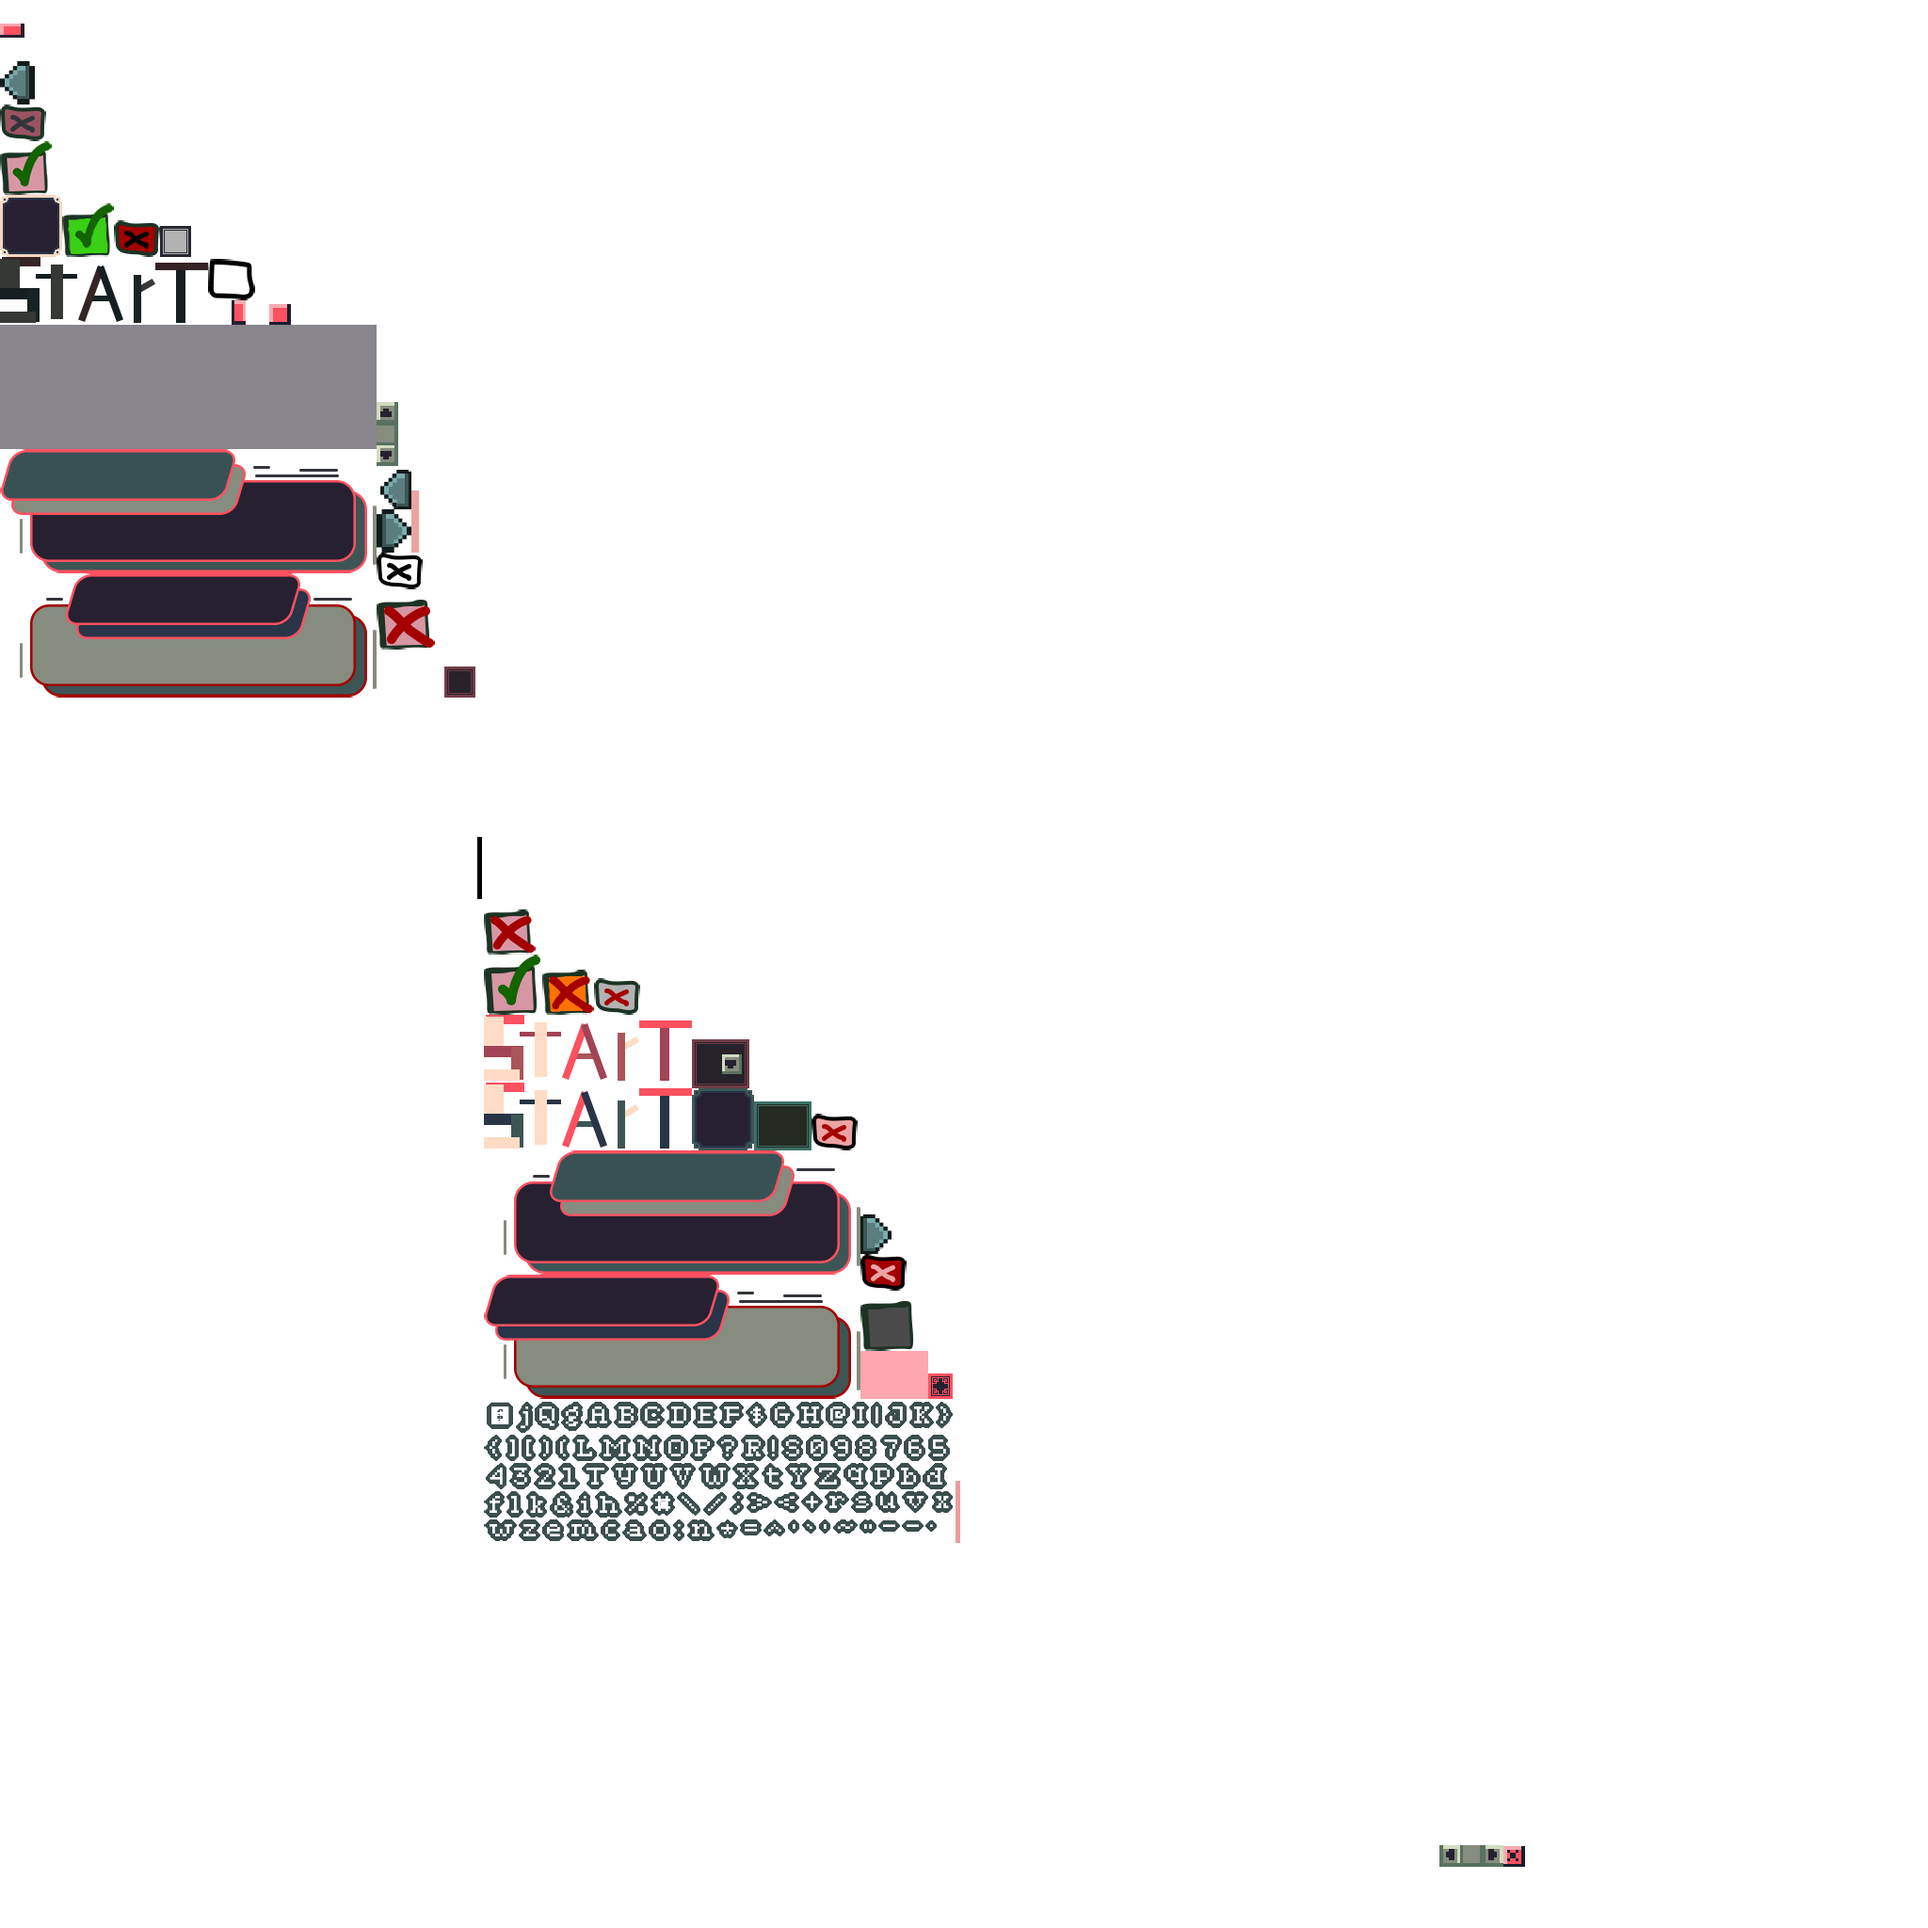
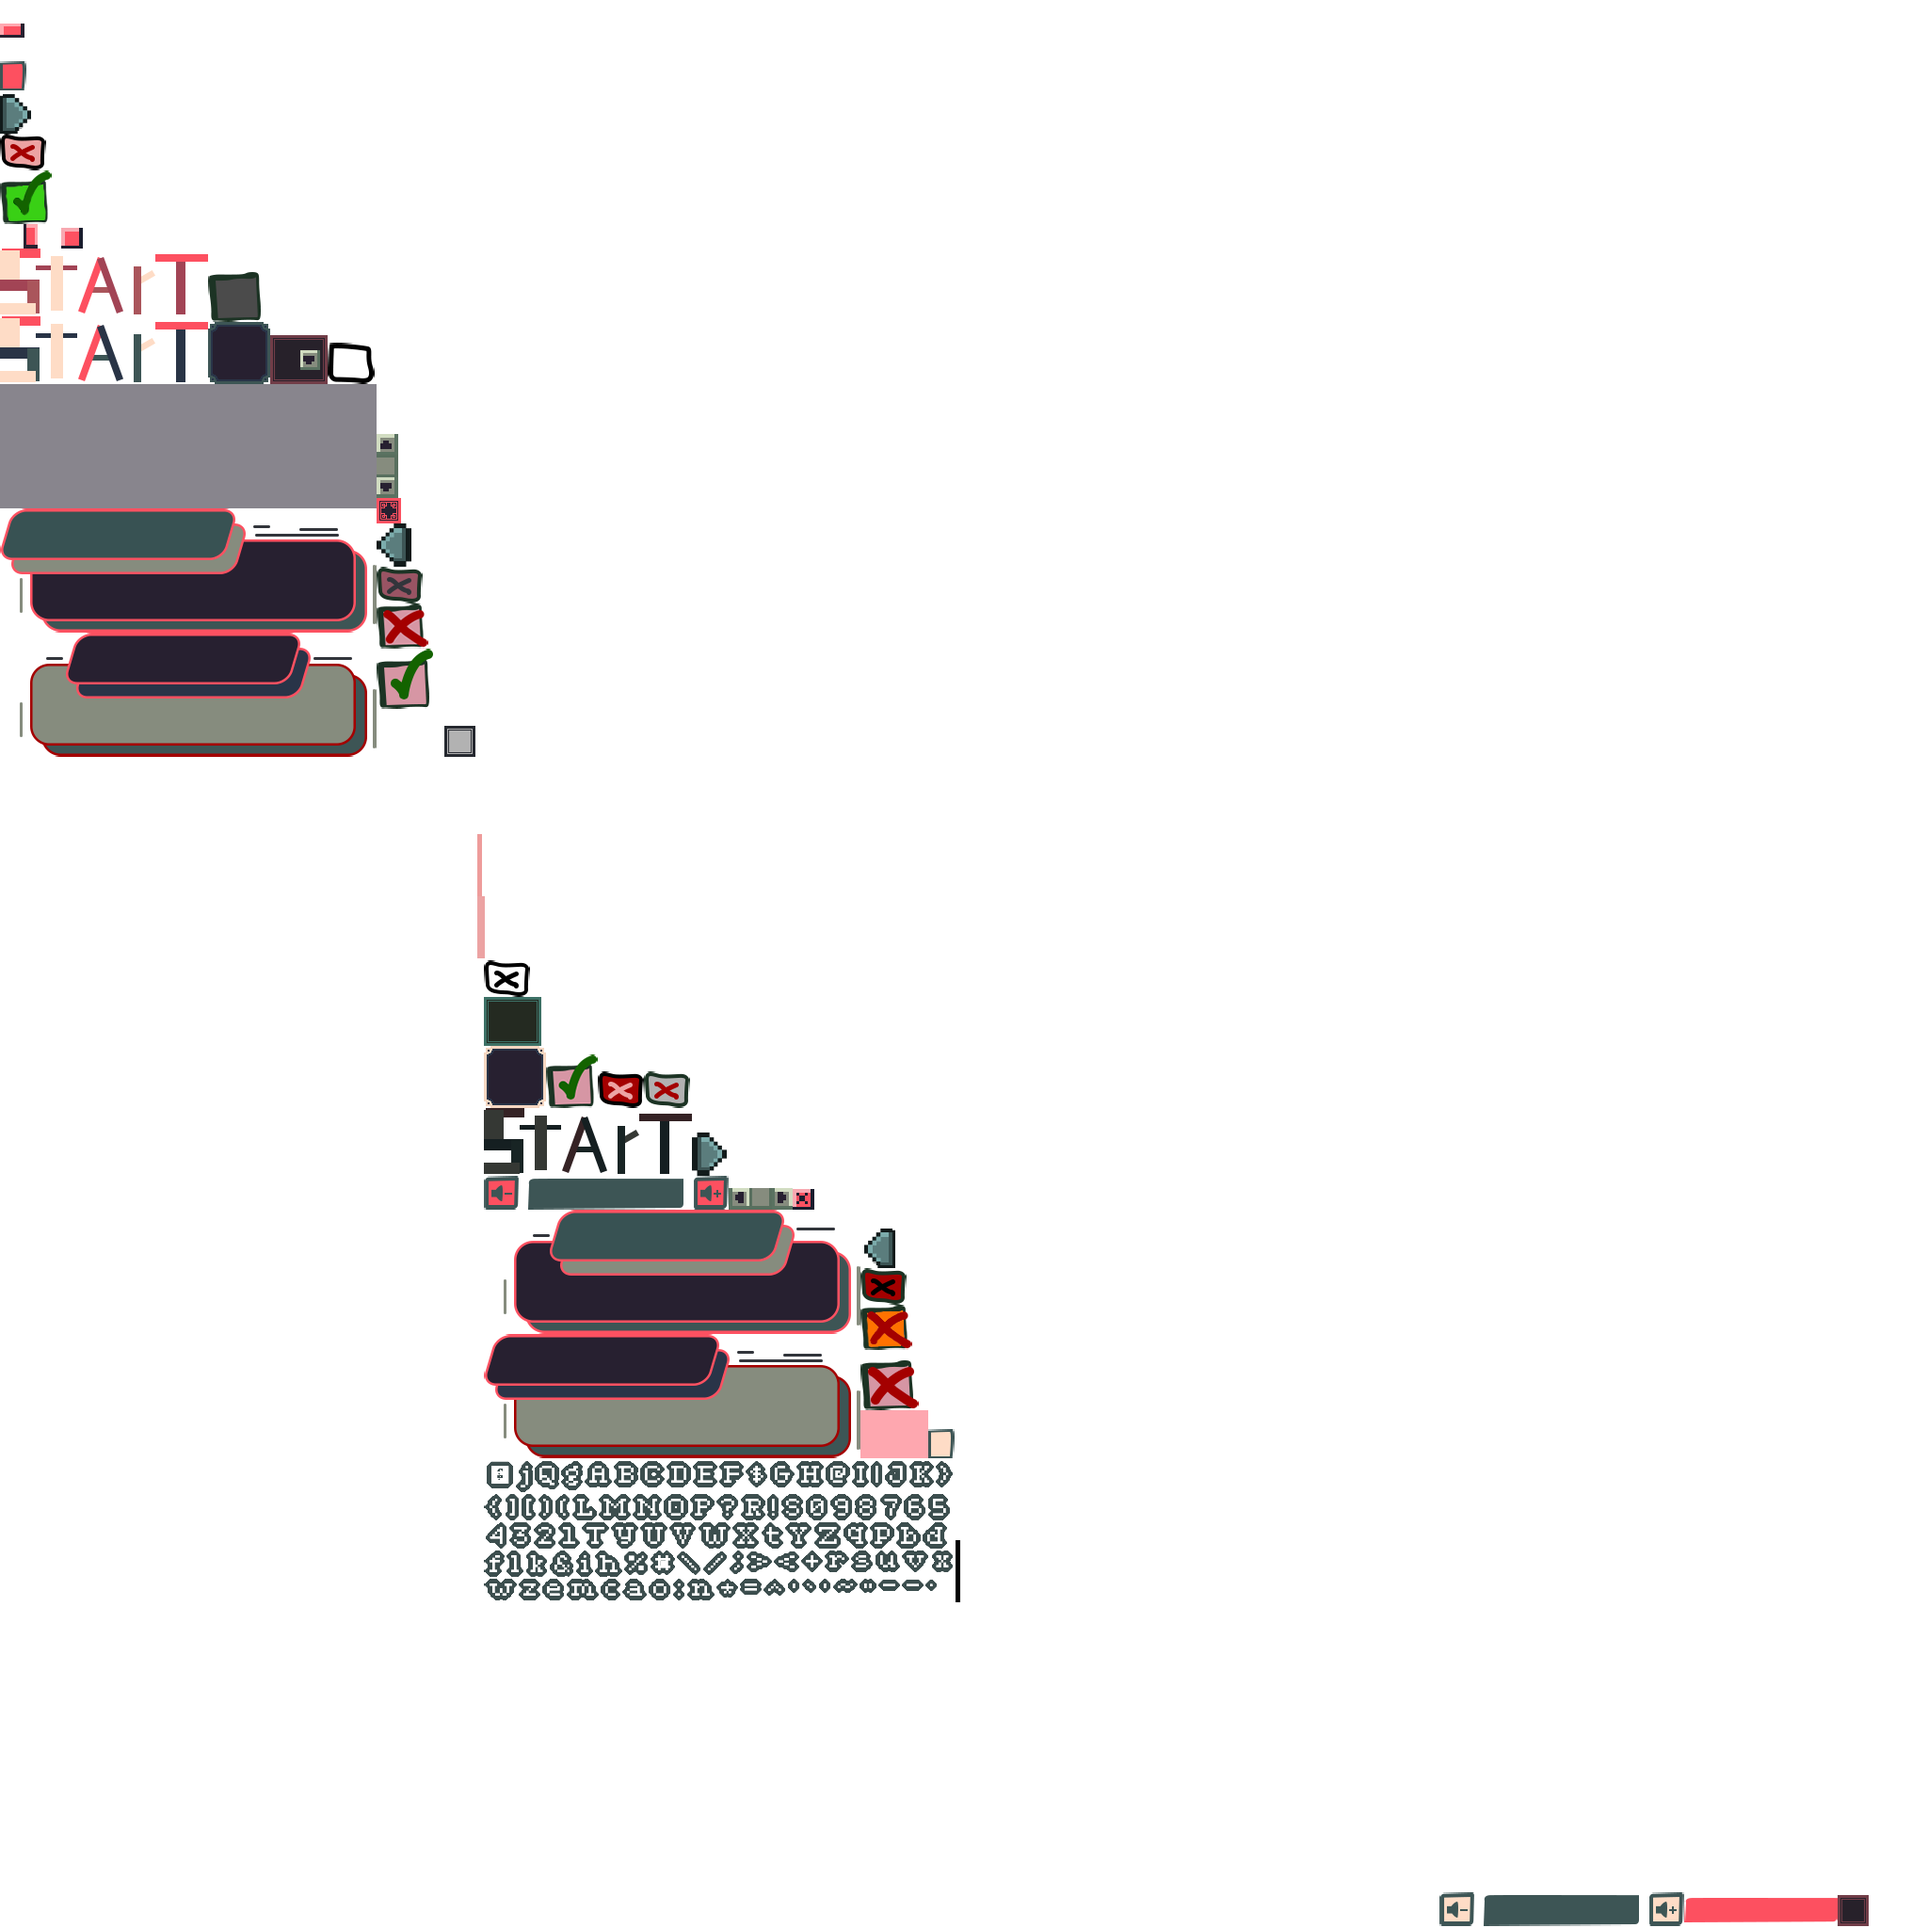
start setting menu

Changed region(s): [[0.25, 0.4688, 0.5, 0.8438], [0.0, 0.0312, 0.25, 0.4062], [0.75, 0.9375, 0.9688, 1.0]]

diff --git a/core/src/main/java/com/tilldawn/View/SettingMenu.java b/core/src/main/java/com/tilldawn/View/SettingMenu.java
@@ -1,17 +1,28 @@
 package com.tilldawn.View;
 
 import com.badlogic.gdx.Gdx;
+import com.badlogic.gdx.graphics.Color;
 import com.badlogic.gdx.scenes.scene2d.Stage;
-import com.badlogic.gdx.scenes.scene2d.ui.Table;
+import com.badlogic.gdx.scenes.scene2d.ui.*;
+import com.badlogic.gdx.utils.Align;
 import com.badlogic.gdx.utils.ScreenUtils;
 import com.badlogic.gdx.utils.viewport.FitViewport;
 import com.badlogic.gdx.utils.viewport.Viewport;
 import com.tilldawn.Controller.SettingMenuController;
+import com.tilldawn.Models.AssetManager;
+import com.tilldawn.Models.GameAudioManager;
 import com.tilldawn.TillDawn;
+
+import java.util.ArrayList;
 
 public class SettingMenu implements AppView {
 
     private final Stage stage;
+
+    private final Slider musicSlider;
+    private final Slider ambientSlider;
+    private final Slider footSlider;
+    private final Slider sfxSlider;
 
     public SettingMenu() {
         Viewport viewport = new FitViewport(1280, 720);
@@ -19,16 +30,61 @@ public class SettingMenu implements AppView {
         Gdx.input.setInputProcessor(stage);
         Table table = new Table();
         table.setFillParent(true);
+        Skin skin = AssetManager.getInstance().getSkin();
 
+        Table page1 = new Table();
+        page1.setSize(1280, 720 * 3);
+        page1.setFillParent(true);
 
+        Label musicLabel = new Label("Music", skin);
+        musicSlider = new Slider(0, 100, 1, false, skin);
+        musicSlider.setValue(GameAudioManager.musicVolume * 100);
 
+        Label SFXLabel = new Label("SFX", skin);
+        sfxSlider = new Slider(0, 100, 1, false, skin);
+        sfxSlider.setValue(GameAudioManager.sfxVolume * 100);
+
+        Label footLabel = new Label("Foot", skin);
+        footSlider = new Slider(0, 100, 1, false, skin);
+        footSlider.setValue(GameAudioManager.footStepVolume * 100);
+
+        Label ambientLabel = new Label("Ambient", skin);
+        ambientSlider = new Slider(0, 100, 1, false, skin);
+        ambientSlider.setValue(GameAudioManager.ambientVolume * 100);
+
+        SelectBox<String> songs = new SelectBox<>(skin);
+        ArrayList<String> songsList = new ArrayList<>();
+        songsList.add("test1");
+        songsList.add("test2");
+        songsList.add("test3");
+        songsList.add("test4");
+        songs.setItems(String.valueOf(songsList));
+        songs.setDisabled(true);
+        songs.setAlignment(Align.center);
+
+        int padTop = 25;
+        int sliderW = 300;
+        int padRight = 50;
+        page1.add(musicLabel).padRight(padRight);
+        page1.add(musicSlider).width(sliderW).row();
+        page1.add(SFXLabel).padTop(padTop).padRight(padRight);
+        page1.add(sfxSlider).width(sliderW).padTop(padTop).row();
+        page1.add(ambientLabel).padTop(padTop).padRight(padRight);
+        page1.add(ambientSlider).padTop(padTop).width(sliderW).row();
+        page1.add(footLabel).padTop(padTop).padRight(padRight);
+        page1.add(footSlider).padTop(padTop).width(sliderW).row();
+        page1.add(songs).width(600).row();
+
+        ScrollPane scrollPane = new ScrollPane(page1);
+
+        table.add(scrollPane).width(1280).height(720);
         stage.addActor(table);
         new SettingMenuController(this);
     }
 
     @Override
     public void render(float delta) {
-        ScreenUtils.clear(0, 0, 0, 1);
+        ScreenUtils.clear(new Color(39f / 255f, 33f / 255f, 42f / 255f, 1f));
         TillDawn.getGame().getBatch().setProjectionMatrix(stage.getCamera().combined);
         TillDawn.getGame().getBatch().begin();
 
@@ -41,6 +97,26 @@ public class SettingMenu implements AppView {
     public void resize(int width, int height) {
         stage.getViewport().update(width, height, true);
     }
+
+    //
+
+    public Slider getAmbientSlider() {
+        return ambientSlider;
+    }
+
+    public Slider getFootSlider() {
+        return footSlider;
+    }
+
+    public Slider getSfxSlider() {
+        return sfxSlider;
+    }
+
+    public Slider getMusicSlider() {
+        return musicSlider;
+    }
+
+    //
 
     @Override
     public void show() {

diff --git a/core/src/main/java/com/tilldawn/Controller/SettingMenuController.java b/core/src/main/java/com/tilldawn/Controller/SettingMenuController.java
@@ -1,5 +1,8 @@
 package com.tilldawn.Controller;
 
+import com.badlogic.gdx.scenes.scene2d.Actor;
+import com.badlogic.gdx.scenes.scene2d.utils.ChangeListener;
+import com.tilldawn.Models.GameAudioManager;
 import com.tilldawn.View.SettingMenu;
 
 public class SettingMenuController {
@@ -11,6 +14,11 @@ public class SettingMenuController {
     }
 
     private void initialize() {
-
+        menu.getMusicSlider().addListener(new ChangeListener() {
+            @Override
+            public void changed(ChangeEvent event, Actor actor) {
+                GameAudioManager.musicVolume = menu.getMusicSlider().getValue() / 100f;
+            }
+        });
     }
 }

diff --git a/core/src/main/java/com/tilldawn/Models/GameAudioManager.java b/core/src/main/java/com/tilldawn/Models/GameAudioManager.java
@@ -14,7 +14,7 @@ public class GameAudioManager {
     // for step :
     public static float footStepVolume = 1f;
     // for music :
-    public static float musicVolume = 1f;
+    public static float musicVolume = 0f;
     public static boolean playMusic = false;
     // for ambient :
     public static float ambientVolume = 1f;
